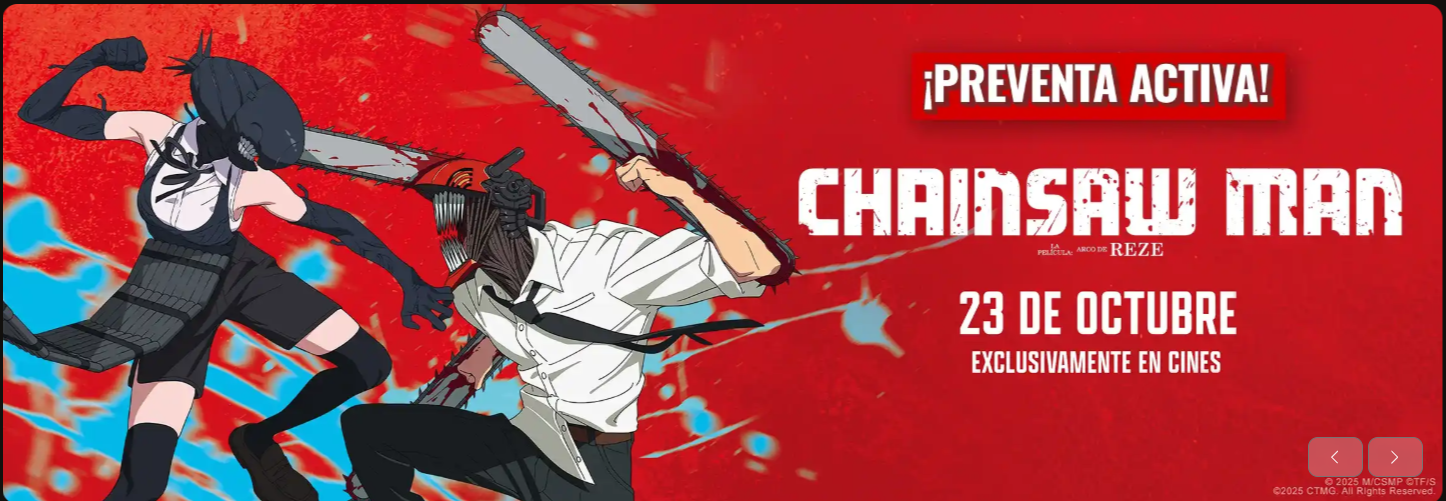
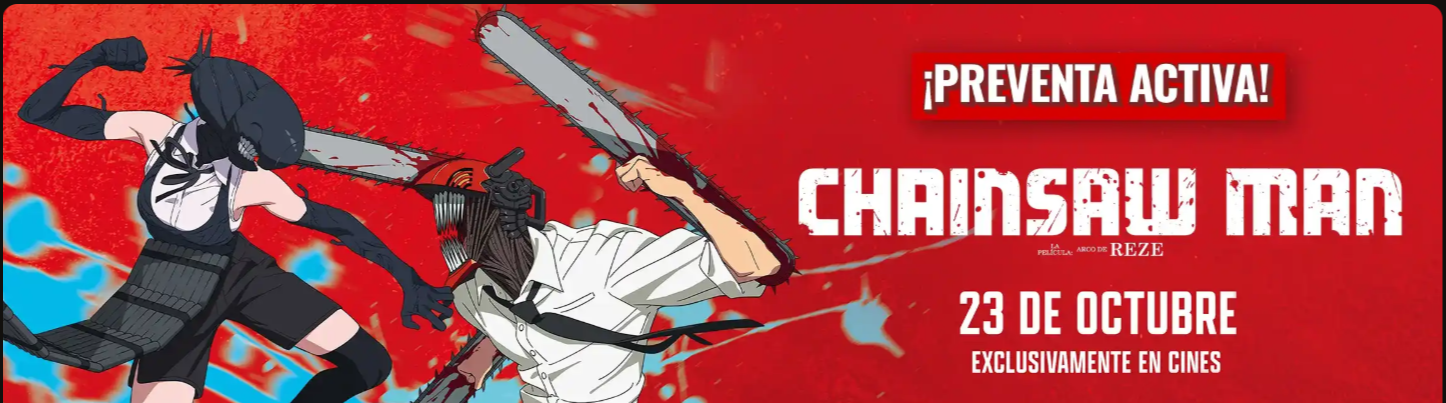
Add files via upload

diff --git a/Html/nosotros.html b/Html/nosotros.html
@@ -6,21 +6,24 @@
     <title>Nosotros</title>
 </head>
 <body>
+    <h1>CINEMA Peru</h1>
     <header>
-        <img src="../imagenes/bannerPrincipal.png" alt="BannerDeInicio" width="100%" height="320px">
+        <img src="../imagenes/BANNERPELICULAS.png" alt="BannerDeInicio" width="100%" height="370px">
         <nav>
-        <a href="../index.html">Inicio</a>
-        <a href="peliculas.html">Peliculas</a>
-        <a href="socio.html">Socio</a>
-        <a href="nosotros.html">Nosotros</a>
-      </nav>
+            <ul>
+              <li><a href="../index.html">Inicio</a></li>
+              <li><a href="./peliculas.html">Peliculas</a></li>
+              <li><a href="./socio.html">Socio</a></li>
+              <li><a href="./nosotros.html">Nosotros</a></li>
+            </ul>
+        </nav>
         <hr>
     </header>
     <main>
-        <h1>PROPOSITO</h1>
+        <h2>PROPOSITO</h2>
         <p>Transformar un dia comun en historias extraordinarias</p>
 
-        <h1>Nuestra Vision</h1>
+        <h2>NUESTRA VISION</h2>
         <p>Ser la opción de entretenimiento que impacte positivamente en la vida de las personas y la sociedad</p>
         <img src="../imagenes/Nosotros.png" alt="">
     </main>

diff --git a/Html/socio.html b/Html/socio.html
@@ -7,13 +7,15 @@
 </head>
 <body>
     <header>
-        <img src="../imagenes/BannerSociopng.png" alt="BannerDeInicio" width="100%" height="360px">
+        <img src="../imagenes/BANNERSOCIO.png" alt="BannerDeInicio" width="100%" height="370px">
         <nav>
-        <a href="../index.html">Inicio</a>
-        <a href="peliculas.html">Peliculas</a>
-        <a href="socio.html">Socio</a>
-        <a href="nosotros.html">Nosotros</a>
-      </nav>
+            <ul>
+              <li><a href="../index.html">Inicio</a></li>
+              <li><a href="./peliculas.html">Peliculas</a></li>
+              <li><a href="./socio.html">Socio</a></li>
+              <li><a href="./nosotros.html">Nosotros</a></li>
+            </ul>
+        </nav>
         <hr>
     </header>
     <main>
@@ -31,7 +33,7 @@
 
         <h2>Mas visitas, mas beneficios</h1>
 
-        <h1>¿Dudas?</h1>
+        <h2>¿Dudas?</h2>
 
         <button>Condiciones del programa</button>
         <button>Preguntas Frecuentes</button>

diff --git a/Html/peliculas.html b/Html/peliculas.html
@@ -8,17 +8,19 @@
   <body>
     <header>
       <img
-        src="../imagenes/BannerEstrenos.png"
+        src="../imagenes/BANNERPELICULAS.png"
         alt="BannerDeInicio"
         width="100%"
-        height="320px"
+        height="370px"
       />
-      <nav>
-        <a href="../index.html">Inicio</a>
-        <a href="peliculas.html">Peliculas</a>
-        <a href="socio.html">Socio</a>
-        <a href="nosotros.html">Nosotros</a>
-      </nav>
+       <nav>
+            <ul>
+              <li><a href="../index.html">Inicio</a></li>
+              <li><a href="./peliculas.html">Peliculas</a></li>
+              <li><a href="./socio.html">Socio</a></li>
+              <li><a href="./nosotros.html">Nosotros</a></li>
+            </ul>
+        </nav>
       <hr />
     </header>
     <main>

diff --git a/index.html b/index.html
@@ -6,18 +6,21 @@
     <title>Inicio</title>
   </head>
   <body>
+    <h1>CINEMA Peru</h1>
     <header>
       <img
         src="../imagenes/bannerPrincipal.png"
         alt="BannerDeInicio"
         width="100%"
-        height="320px"
+        height="330px"
       />
       <nav>
-        <a href="./index.html">Inicio</a>
-        <a href="./Html/peliculas.html">Peliculas</a>
-        <a href="./Html/socio.html">Socio</a>
-        <a href="./Html/nosotros.html">Nosotros</a>
+        <ul>
+          <li><a href="./index.html">Inicio</a></li>
+          <li><a href="./Html/peliculas.html">Peliculas</a></li>
+          <li><a href="./Html/socio.html">Socio</a></li>
+          <li><a href="./Html/nosotros.html">Nosotros</a></li>
+        </ul>
       </nav>
       <hr />
     </header>
